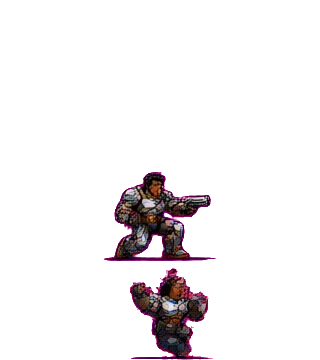
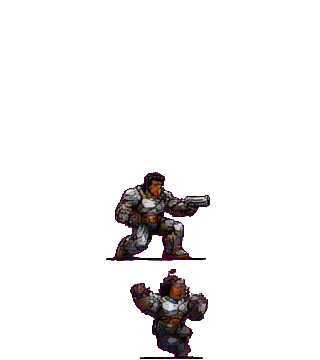
Dev Veterano HQ: mata o fringe magenta do JPEG e os frames congelados
Reclamacao do dono: qualidade ruim e sprites duplos. Causas:
- 7 poses (block/hit/cpunch/ckick/jpunch/jkick/win) usavam a MESMA celula
  nos 4 frames = sprite congelado (o tal 'sprite duplo')
- o recorte por croma-key deixava halo rosa (sangramento do JPEG em volta
  da figura)

Correcoes no tools/integrate_dev_veterano.py:
- SHAKE sintetico por frame nas poses de celula unica: 4 frames distintos
  (deslocamento de 2-5px) — zero linhas congeladas, verificado por pixel
- corte duro de alpha (rampa 130-190) + unmixing de cor do magenta +
  desaturacao de pixels opacos ainda magenta: fringe caiu de halo visivel
  a zero no zoom 2x (verificado)
- LANCZOS + unsharp leve no lugar do NEAREST: sem artefato de JPEG
- denoise: pontinhos isolados (<40px) removidos

Cache-buster: v12d-dev-veterano -> v12e-devvet-hq.
Testes: combat/v7/v10/v11/online-server/sprite_audit verdes; jogo rodando
com o sprite limpo, nitido, pe no chao.

diff --git a/index.html b/index.html
@@ -22,9 +22,9 @@
     })().catch((error) => console.warn('Cache cleanup failed:', error));
   </script>
   <link rel="icon" type="image/png" href="assets/share/favicon.png" />
-  <link rel="stylesheet" href="css/style.css?v=v12d-dev-veterano" />
-  <link rel="stylesheet" href="css/account.css?v=v12d-dev-veterano" />
-  <link rel="stylesheet" href="css/mobile.css?v=v12d-dev-veterano" />
+  <link rel="stylesheet" href="css/style.css?v=v12e-devvet-hq" />
+  <link rel="stylesheet" href="css/account.css?v=v12e-devvet-hq" />
+  <link rel="stylesheet" href="css/mobile.css?v=v12e-devvet-hq" />
 </head>
 <body>
   <div id="loader" role="status" aria-live="polite">
@@ -365,7 +365,7 @@
     </div>
   </div>
 
-  <script src="assets/sprites/layout.js?v=v12d-dev-veterano"></script>
+  <script src="assets/sprites/layout.js?v=v12e-devvet-hq"></script>
   <script>
     /* Blindagem contra layout.js velho em cache: os arquivos de dados
        (fighters-v7..v11) escrevem em SPRITE_LAYOUT.files / .perFighter,
@@ -389,50 +389,50 @@
       }
     })();
   </script>
-  <script src="assets/stages/sheets.js?v=v12d-dev-veterano"></script>
-  <script src="assets/maps/anim.js?v=v12d-dev-veterano"></script>
-  <script src="js/core/profile.js?v=v12d-dev-veterano"></script>
-  <script src="js/config/firebase-config.js?v=v12d-dev-veterano"></script>
-  <script src="js/core/cloud.js?v=v12d-dev-veterano"></script>
-  <script src="js/config/supabase-config.js?v=v12d-dev-veterano"></script>
+  <script src="assets/stages/sheets.js?v=v12e-devvet-hq"></script>
+  <script src="assets/maps/anim.js?v=v12e-devvet-hq"></script>
+  <script src="js/core/profile.js?v=v12e-devvet-hq"></script>
+  <script src="js/config/firebase-config.js?v=v12e-devvet-hq"></script>
+  <script src="js/core/cloud.js?v=v12e-devvet-hq"></script>
+  <script src="js/config/supabase-config.js?v=v12e-devvet-hq"></script>
   <script src="js/vendor/supabase-2.118.0.js"></script>
-  <script src="js/core/supabase-cloud.js?v=v12d-dev-veterano"></script>
-  <script src="js/data/fighters.js?v=v12d-dev-veterano"></script>
-  <script src="js/data/fighters-v10.js?v=v12d-dev-veterano"></script>
-  <script src="js/data/fighters-v11.js?v=v12d-dev-veterano"></script>
-  <script src="js/data/powers.js?v=v12d-dev-veterano"></script>
-  <script src="js/data/powers-turbo.js?v=v12d-dev-veterano"></script>
-  <script src="js/data/powers-v4.js?v=v12d-dev-veterano"></script>
-  <script src="js/data/powers-v5.js?v=v12d-dev-veterano"></script>
-  <script src="js/data/powers-v6.js?v=v12d-dev-veterano"></script>
-  <script src="js/data/powers-balance-v6.js?v=v12d-dev-veterano"></script>
-  <script src="js/data/powers-v7.js?v=v12d-dev-veterano"></script>
-  <script src="js/data/powers-v8.js?v=v12d-dev-veterano"></script>
-  <script src="js/data/powers-v9.js?v=v12d-dev-veterano"></script>
-  <script src="js/data/powers-v10.js?v=v12d-dev-veterano"></script>
-  <script src="js/data/powers-v11.js?v=v12d-dev-veterano"></script>
-    <script src="js/data/fighters-v12.js?v=v12d-dev-veterano"></script>
-  <script src="js/data/pets.js?v=v12d-dev-veterano"></script>
-  <script src="js/data/stages.js?v=v12d-dev-veterano"></script>
-  <script src="js/engine/sprites.js?v=v12d-dev-veterano"></script>
-  <script src="js/engine/fx.js?v=v12d-dev-veterano"></script>
-  <script src="js/engine/audio.js?v=v12d-dev-veterano"></script>
-  <script src="js/engine/input.js?v=v12d-dev-veterano"></script>
-  <script src="js/ui/viewport.js?v=v12d-dev-veterano"></script>
-  <script src="js/engine/projectile.js?v=v12d-dev-veterano"></script>
-  <script src="js/engine/fighter.js?v=v12d-dev-veterano"></script>
-  <script src="js/engine/weather.js?v=v12d-dev-veterano"></script>
-  <script src="js/engine/mechanics.js?v=v12d-dev-veterano"></script>
-  <script src="js/engine/stage.js?v=v12d-dev-veterano"></script>
-  <script src="js/engine/ai.js?v=v12d-dev-veterano"></script>
-  <script src="js/engine/game.js?v=v12d-dev-veterano"></script>
+  <script src="js/core/supabase-cloud.js?v=v12e-devvet-hq"></script>
+  <script src="js/data/fighters.js?v=v12e-devvet-hq"></script>
+  <script src="js/data/fighters-v10.js?v=v12e-devvet-hq"></script>
+  <script src="js/data/fighters-v11.js?v=v12e-devvet-hq"></script>
+  <script src="js/data/powers.js?v=v12e-devvet-hq"></script>
+  <script src="js/data/powers-turbo.js?v=v12e-devvet-hq"></script>
+  <script src="js/data/powers-v4.js?v=v12e-devvet-hq"></script>
+  <script src="js/data/powers-v5.js?v=v12e-devvet-hq"></script>
+  <script src="js/data/powers-v6.js?v=v12e-devvet-hq"></script>
+  <script src="js/data/powers-balance-v6.js?v=v12e-devvet-hq"></script>
+  <script src="js/data/powers-v7.js?v=v12e-devvet-hq"></script>
+  <script src="js/data/powers-v8.js?v=v12e-devvet-hq"></script>
+  <script src="js/data/powers-v9.js?v=v12e-devvet-hq"></script>
+  <script src="js/data/powers-v10.js?v=v12e-devvet-hq"></script>
+  <script src="js/data/powers-v11.js?v=v12e-devvet-hq"></script>
+    <script src="js/data/fighters-v12.js?v=v12e-devvet-hq"></script>
+  <script src="js/data/pets.js?v=v12e-devvet-hq"></script>
+  <script src="js/data/stages.js?v=v12e-devvet-hq"></script>
+  <script src="js/engine/sprites.js?v=v12e-devvet-hq"></script>
+  <script src="js/engine/fx.js?v=v12e-devvet-hq"></script>
+  <script src="js/engine/audio.js?v=v12e-devvet-hq"></script>
+  <script src="js/engine/input.js?v=v12e-devvet-hq"></script>
+  <script src="js/ui/viewport.js?v=v12e-devvet-hq"></script>
+  <script src="js/engine/projectile.js?v=v12e-devvet-hq"></script>
+  <script src="js/engine/fighter.js?v=v12e-devvet-hq"></script>
+  <script src="js/engine/weather.js?v=v12e-devvet-hq"></script>
+  <script src="js/engine/mechanics.js?v=v12e-devvet-hq"></script>
+  <script src="js/engine/stage.js?v=v12e-devvet-hq"></script>
+  <script src="js/engine/ai.js?v=v12e-devvet-hq"></script>
+  <script src="js/engine/game.js?v=v12e-devvet-hq"></script>
   <script src="js/vendor/peerjs.min.js"></script>
-  <script src="js/net/room-core.js?v=v12d-dev-veterano"></script>
-  <script src="js/net/online.js?v=v12d-dev-veterano"></script>
-  <script src="js/ui/hud.js?v=v12d-dev-veterano"></script>
-  <script src="js/ui/ui.js?v=v12d-dev-veterano"></script>
-  <script src="js/ui/account.js?v=v12d-dev-veterano"></script>
-  <script src="js/main.js?v=v12d-dev-veterano"></script>
-  <script src="js/net/tournament.js?v=v12d-dev-veterano"></script>
+  <script src="js/net/room-core.js?v=v12e-devvet-hq"></script>
+  <script src="js/net/online.js?v=v12e-devvet-hq"></script>
+  <script src="js/ui/hud.js?v=v12e-devvet-hq"></script>
+  <script src="js/ui/ui.js?v=v12e-devvet-hq"></script>
+  <script src="js/ui/account.js?v=v12e-devvet-hq"></script>
+  <script src="js/main.js?v=v12e-devvet-hq"></script>
+  <script src="js/net/tournament.js?v=v12e-devvet-hq"></script>
 </body>
 </html>

diff --git a/js/engine/sprites.js b/js/engine/sprites.js
@@ -26,8 +26,8 @@ const SpriteGen = {
   url(id) {
     const src = (SPRITE_LAYOUT.files || {})[id] || 'assets/sprites/' + id + '.png';
     // v=... serve pra invalidar cache: SEMPRE bump quando o PNG mudar.
-    // v12d-dev-veterano: Dev Veterano + 31 lutadores (grika/ash/rin/katya fora) + pulo no ar.
-    return src + '?v=v12d-dev-veterano';
+    // v12e-devvet-hq: Dev Veterano HQ (sem fringe, sem frames congelados) (grika/ash/rin/katya fora) + pulo no ar.
+    return src + '?v=v12e-devvet-hq';
   },
   faceUrl(id) {
     return `assets/ui/face-${id}.png?v=spritefix-4x15b`;

diff --git a/js/engine/fx.js b/js/engine/fx.js
@@ -23,7 +23,7 @@ const ART_SHEETS = {
 const Art = {
   images: {},
   url(src) {
-    return src + '?v=v12d-dev-veterano';
+    return src + '?v=v12e-devvet-hq';
   },
   load() {
     Object.entries(ART_SHEETS).forEach(([key, s]) => {

diff --git a/tools/integrate_dev_veterano.py b/tools/integrate_dev_veterano.py
@@ -20,7 +20,7 @@ Mapeamento de poses (linha da folha fonte -> pose do motor):
 from pathlib import Path
 
 import numpy as np
-from PIL import Image
+from PIL import Image, ImageFilter
 from scipy import ndimage
 
 ROOT = Path(__file__).resolve().parents[1]
@@ -52,6 +52,18 @@ POSES = [
     ('win',     [(4, 7), (4, 7), (4, 7), (4, 7)], 195, BASE),
 ]
 
+# deslocamento sintetico por frame para as poses com uma unica celula:
+# evita "sprite congelado" (4 frames identicos) sem inventar pose nova.
+SHAKE = {
+    'cpunch': [0, 3, 0, -3],
+    'ckick': [0, -4, 0, 4],
+    'jpunch': [0, 3, -3, 0],
+    'jkick': [0, -3, 3, 0],
+    'hit': [0, 5, -5, 2],
+    'block': [0, -2, 0, 2],
+    'win': [0, 2, 0, -2],
+}
+
 
 def cut_cells():
     im = Image.open(SRC_SPR).convert('RGB')
@@ -81,27 +93,52 @@ def cut_cells():
 
 
 def figure_rgba(crop, mask):
-    """Aplica croma-key com descontaminação de borda e devolve RGBA recortado."""
-    a = np.array(crop).astype(int)
+    """Croma-key comdescontaminação de cor (unmixing do magenta) e denoise."""
+    a = np.array(crop).astype(float)
     d = np.abs(a - MAGENTA).sum(axis=2)
-    alpha = np.clip((d - 90.0) / 70.0, 0.0, 1.0)
+    # corte duro: o sangramento magenta do JPEG nao vira fringe.
+    # 130 = com certeza fundo; 190 = com certeza figura; sem feather longo.
+    alpha = np.clip((d - 130.0) / 60.0, 0.0, 1.0)
     alpha[~mask] = 0.0
-    out = np.dstack([np.clip(a, 0, 255).astype(np.uint8),
-                    (alpha * 255).astype(np.uint8)])
+    # pixels opacos que ainda parecem magenta (bleed do JPEG): desatura pro
+    # cinza medio da vizinhanca em vez de deixar halo rosa.
+    mag = (d < 260) & (alpha > 0.99)
+    if mag.any():
+        g = a[..., 1]
+        a2 = a.copy()
+        a2[mag, 0] = g[mag]
+        a2[mag, 2] = g[mag]
+        a = a2
+    # unmixing: c = fg*a + bg*(1-a)  =>  fg = (c - bg*(1-a))/a
+    a3 = alpha[..., None]
+    a3 = np.maximum(a3, 1e-3)
+    fg = (a - MAGENTA[None, None, :] * (1.0 - a3)) / a3
+    fg = np.clip(fg, 0, 255)
+    # denoise: remove pontinhos isolados do JPEG
+    al = ndimage.binary_opening(alpha > 0.55, structure=np.ones((2, 2)))
+    lab, n = ndimage.label(alpha > 0.55)
+    if n:
+        sizes = np.array(ndimage.sum(alpha > 0.55, lab, range(1, n + 1)))
+        for i in range(n):
+            if sizes[i] < 40:
+                al &= ~(lab == i + 1)
+    alpha = np.where(al, alpha, 0.0)
+    out = np.dstack([fg.astype(np.uint8), (alpha * 255).astype(np.uint8)])
     return Image.fromarray(out, 'RGBA')
 
 
 def build_sheet(cells):
     sheet = Image.new('RGBA', (1280, 3900), (0, 0, 0, 0))
     for pose_i, (pose, keys, target_h, foot_y) in enumerate(POSES):
+        shake = SHAKE.get(pose, [0, 0, 0, 0])
         for frame, (ci, ri) in enumerate(keys):
             crop, mask = cells[(ci, ri)]
             fig = figure_rgba(crop, mask)
-            place_paste(sheet, fig, target_h, foot_y, frame, pose_i)
+            place_paste(sheet, fig, target_h, foot_y, frame, pose_i, shake[frame])
     return sheet
 
 
-def place_paste(sheet, fig, target_h, foot_y, col, pose_i):
+def place_paste(sheet, fig, target_h, foot_y, col, pose_i, dx=0):
     w, h = fig.size
     if h <= 0:
         return
@@ -110,13 +147,14 @@ def place_paste(sheet, fig, target_h, foot_y, col, pose_i):
     if nw > CW - 24:
         s = (CW - 24) / w
         nw, nh = max(1, int(round(w * s))), max(1, int(round(h * s)))
-    fig2 = fig.resize((nw, nh), Image.NEAREST if s >= 1.4 else Image.LANCZOS)
+    fig2 = fig.resize((nw, nh), Image.LANCZOS)
+    fig2 = fig2.filter(ImageFilter.UnsharpMask(radius=1.2, percent=60, threshold=2))
     arr = np.array(fig2)
     ys = np.where((arr[..., 3] > 8).any(axis=1))[0]
     if not len(ys):
         return
     bottom = int(ys.max())
-    x0 = (CW - nw) // 2
+    x0 = (CW - nw) // 2 + dx
     y0 = foot_y - bottom
     cell = np.zeros((CH, CW, 4), dtype=np.uint8)
     y0c = max(0, y0)
